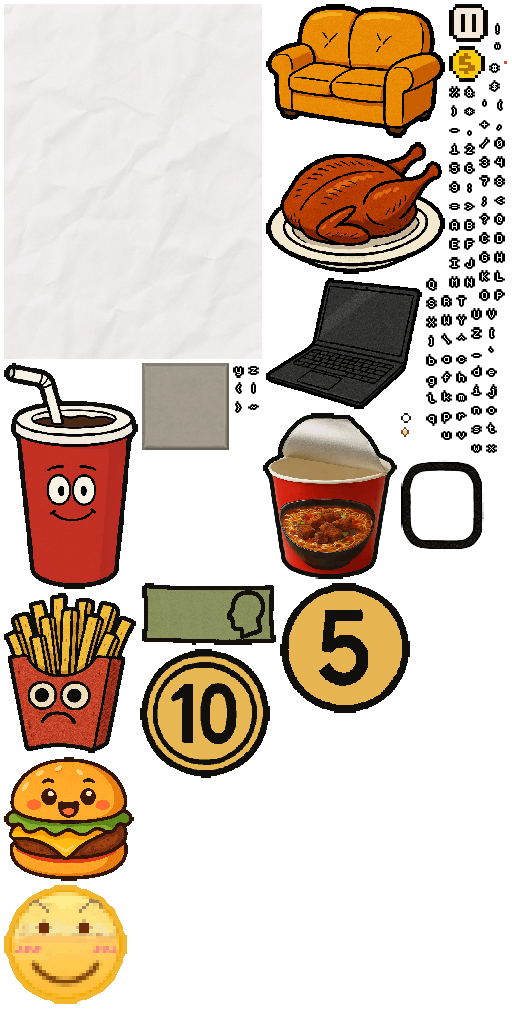
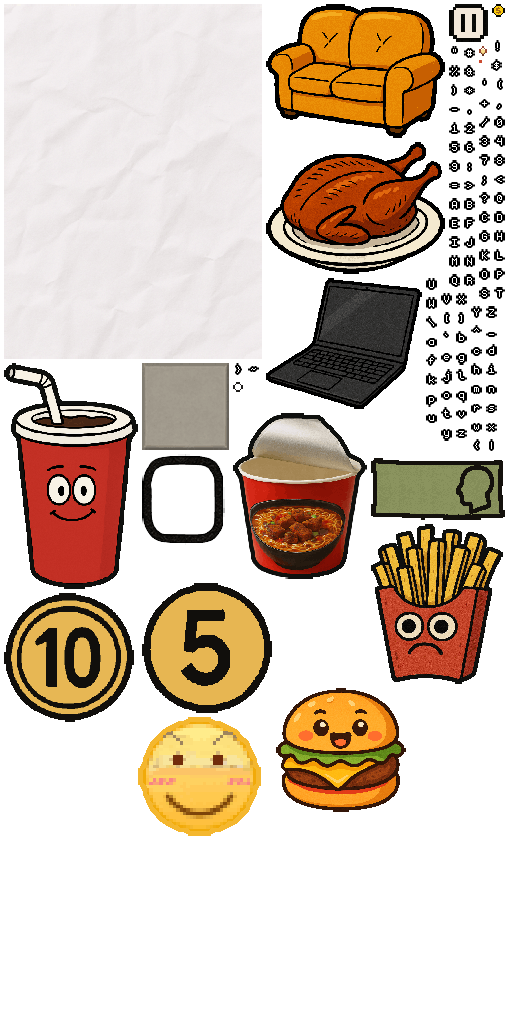
refine

Changed region(s): [[0.0, 0.0, 1.0, 1.0]]

diff --git a/_src1/src/res_tp_frames.h b/_src1/src/res_tp_frames.h
@@ -343,7 +343,7 @@ struct ResTpFrames {
 	static constexpr xx::XY _size_ui_menu_{ 256, 353 };
 	static constexpr xx::XY _anchor_ui_menu_{ 0.5, 0.5 };
 	xx::Ref<xx::Frame> ui_money;
-	static constexpr xx::XY _size_ui_money_{ 34, 34 };
+	static constexpr xx::XY _size_ui_money_{ 11, 11 };
 	static constexpr xx::XY _anchor_ui_money_{ 0.5, 0.5 };
 	xx::Ref<xx::Frame> ui_pause;
 	static constexpr xx::XY _size_ui_pause_{ 37, 36 };
